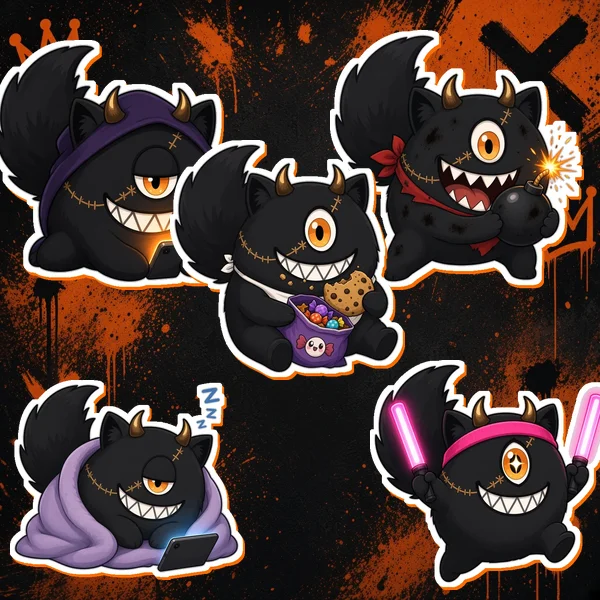
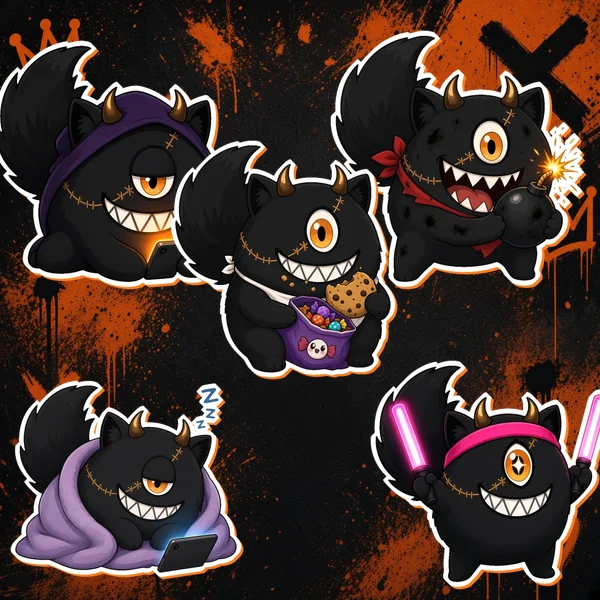
Rebuild quiz card and og image from new creature art; trim share text

diff --git a/creature/index.html b/creature/index.html
@@ -1,5 +1,5 @@
 <!doctype html><html lang="en"><head><base href="/"><meta charset="utf-8"><meta name="viewport" content="width=device-width,initial-scale=1,viewport-fit=cover">
-<title>Which Dubious Creature Are You? · Kitsura Nines</title><meta name="description" content="Take the quiz and find out which of Kitsura Nines' dubious creatures you are. Lurker? Chaos? Roger Simp? Chaos reigns."><meta property="og:type" content="website"><meta property="og:site_name" content="Kitsura Nines"><meta property="og:title" content="Which Dubious Creature Are You? · Kitsura Nines"><meta property="og:description" content="Take the quiz and find out which of Kitsura Nines' dubious creatures you are. Lurker? Chaos? Roger Simp? Chaos reigns."><meta property="og:url" content="https://kitsuranines.com/creature/"><meta property="og:image" content="https://kitsuranines.com/creature/img/og.jpg?v=1"><meta property="og:image:width" content="1200"><meta property="og:image:height" content="630"><meta property="og:image:alt" content="Dubious creatures"><meta name="twitter:card" content="summary_large_image"><meta name="twitter:site" content="@KitsuraNines"><meta name="twitter:title" content="Which Dubious Creature Are You? · Kitsura Nines"><meta name="twitter:description" content="Take the quiz and find out which of Kitsura Nines' dubious creatures you are. Lurker? Chaos? Roger Simp? Chaos reigns."><meta name="twitter:image" content="https://kitsuranines.com/creature/img/og.jpg?v=1"><meta name="theme-color" content="#ff6a00">
+<title>Which Dubious Creature Are You? · Kitsura Nines</title><meta name="description" content="Take the quiz and find out which of Kitsura Nines' dubious creatures you are. Lurker? Chaos? Roger Simp? Chaos reigns."><meta property="og:type" content="website"><meta property="og:site_name" content="Kitsura Nines"><meta property="og:title" content="Which Dubious Creature Are You? · Kitsura Nines"><meta property="og:description" content="Take the quiz and find out which of Kitsura Nines' dubious creatures you are. Lurker? Chaos? Roger Simp? Chaos reigns."><meta property="og:url" content="https://kitsuranines.com/creature/"><meta property="og:image" content="https://kitsuranines.com/creature/img/og.jpg?v=2"><meta property="og:image:width" content="1200"><meta property="og:image:height" content="630"><meta property="og:image:alt" content="Dubious creatures"><meta name="twitter:card" content="summary_large_image"><meta name="twitter:site" content="@KitsuraNines"><meta name="twitter:title" content="Which Dubious Creature Are You? · Kitsura Nines"><meta name="twitter:description" content="Take the quiz and find out which of Kitsura Nines' dubious creatures you are. Lurker? Chaos? Roger Simp? Chaos reigns."><meta name="twitter:image" content="https://kitsuranines.com/creature/img/og.jpg?v=2"><meta name="theme-color" content="#ff6a00">
 
 <link rel="icon" type="image/svg+xml" href="img/mark.svg"><link rel="apple-touch-icon" href="img/apple-touch-icon.png">
 <link rel="preconnect" href="https://fonts.googleapis.com"><link rel="preconnect" href="https://fonts.gstatic.com" crossorigin>
@@ -94,7 +94,7 @@ function ask(){const q=QS[qi];$('bar').style.width=(qi/QS.length*100)+'%';$('qn'
 function start(){qi=0;sc={};K.forEach(k=>sc[k]=0);history.replaceState(null,'','creature/');show('quiz');ask();scrollTo(0,0)}
 function finish(){const m=Math.max(...K.map(k=>sc[k])),t=K.filter(k=>sc[k]==m),r=t[Math.random()*t.length|0];history.replaceState(null,'','creature/?r='+r);result(r,true);if(window.goatcounter&&goatcounter.count)goatcounter.count({path:'creature/result/'+r,title:TYPES[r].n,event:true})}
 function result(r,mine){const T=TYPES[r];$('you').textContent=mine?'You are the':'Someone got the';$('ri').src='creature/img/'+r+'.webp?v=2';$('ri').alt=T.n;$('rn').textContent=T.n;$('rt').textContent=T.t;$('rd').textContent=T.d;
- const txt=`I'm a ${T.n}! "${T.t}" Which dubious creature are you? Take @kitsuranines' quiz 🦊 Chaos reigns!`;
+ const txt=`I'm a ${T.n}! "${T.t}" Which dubious creature are you? Take @kitsuranines' quiz 🦊`;
  $('share').href='https://x.com/intent/post?text='+encodeURIComponent(txt)+'&url='+encodeURIComponent('https://kitsuranines.com/creature/?r='+r);
  $('again').textContent=mine?'Retake':'Take the quiz';show('result');scrollTo(0,0)}
 $('go').onclick=start;$('again').onclick=start;

diff --git a/apps.html b/apps.html
@@ -83,7 +83,7 @@ details.note summary{cursor:pointer;font-weight:700;color:var(--o)}details.note 
 <article class="app"><div class="pic"><img src="img/app-pet.webp?v=2" alt="Nines and Roger being petted, surrounded by orange hearts" loading="lazy"></div>
 <div><h3>Pet the Fox</h3><p>Pet Nines and Roger. She loves it and will never admit it. He hates it. Every pet from everyone adds to their global counters.</p>
 <a class="btn o" href="pet/">&#9654; Open</a><p class="note">Runs in your browser, on phone or desktop.</p></div></article>
-<article class="app"><div class="pic"><img src="img/app-creature.webp?v=1" alt="Five dubious creatures: Lurker, Snack, Chaos, Sleepy and Hype" loading="lazy"></div>
+<article class="app"><div class="pic"><img src="img/app-creature.webp?v=2" alt="Five dubious creatures: Lurker, Snack, Chaos, Sleepy and Hype" loading="lazy"></div>
 <div><h3>Which Dubious Creature Are You?</h3><p>Ten questions to find out which dubious creature you are. Lurker, Snack, Backseat, Roger Simp... chaos reigns. Share your result on X.</p>
 <a class="btn o" href="creature/">&#9654; Open</a><p class="note">Runs in your browser, on phone or desktop.</p></div></article>
 </div></section>
